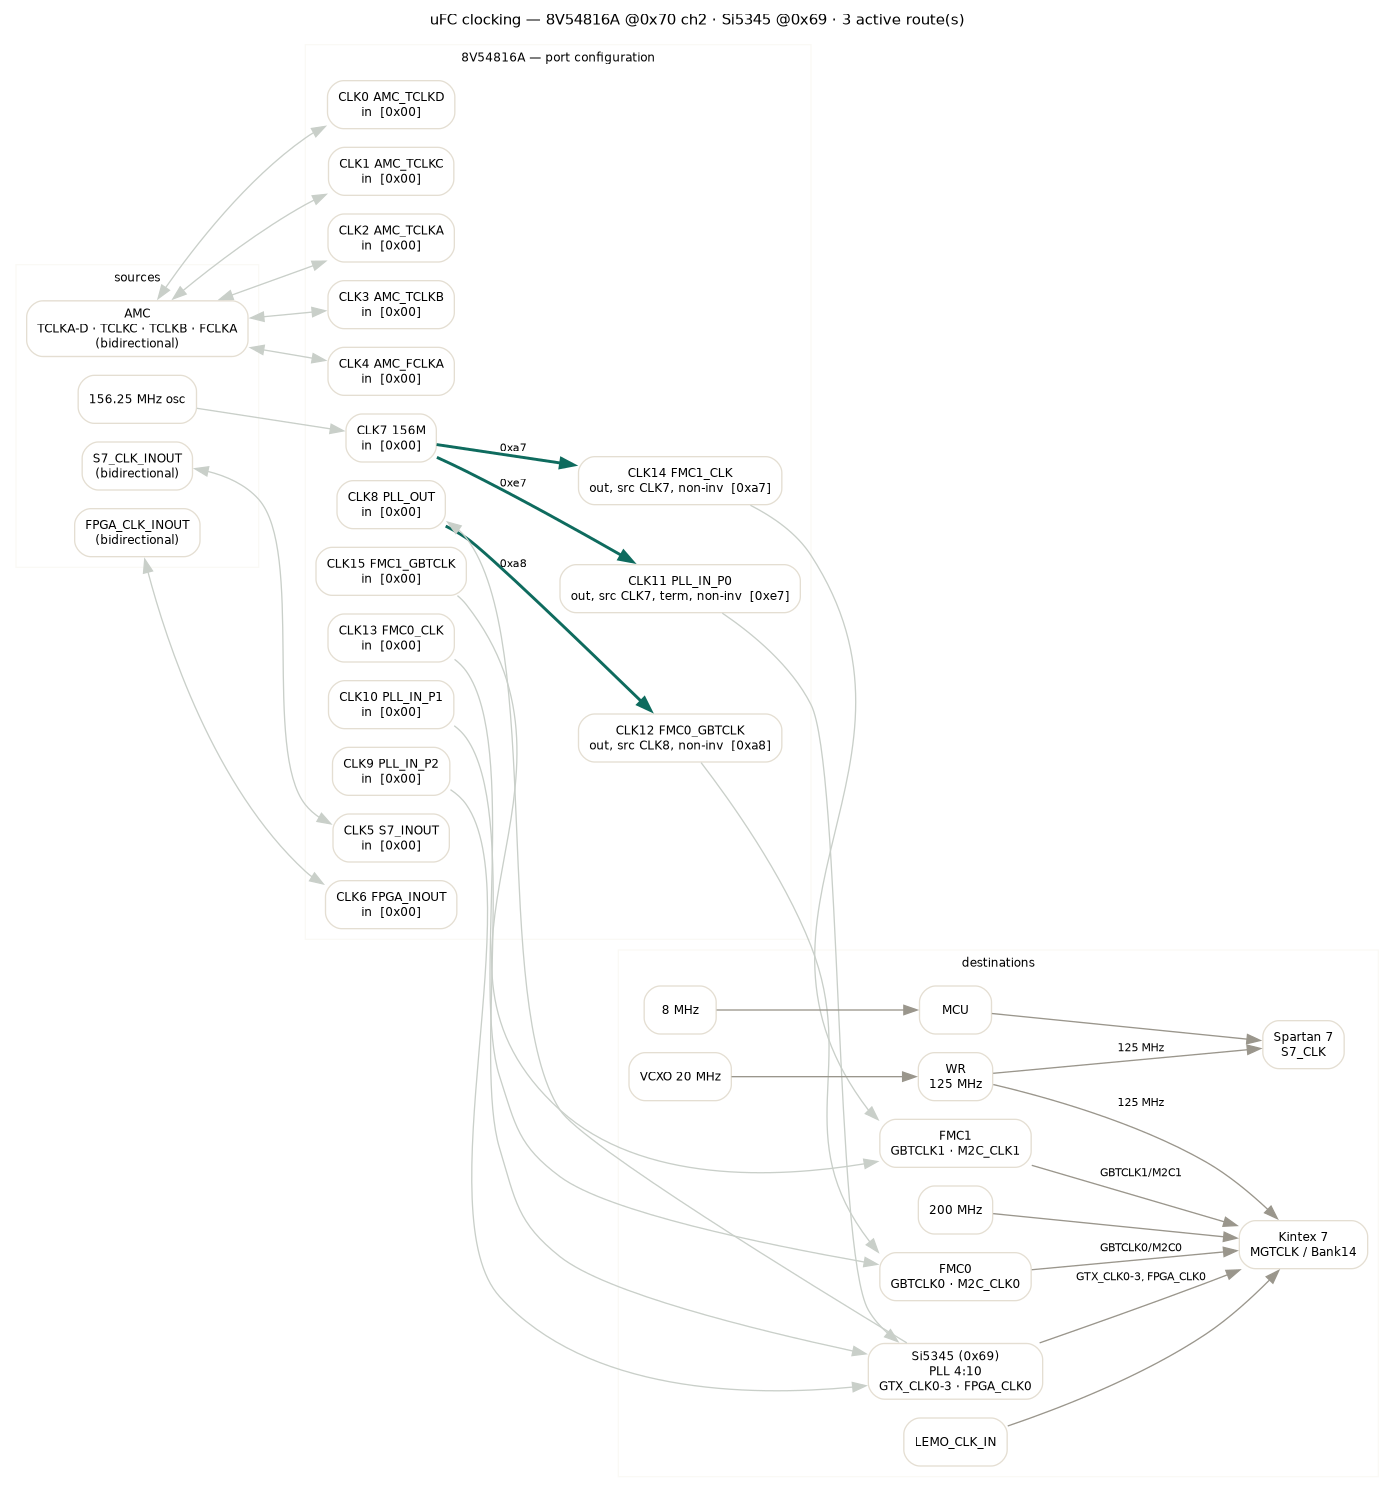
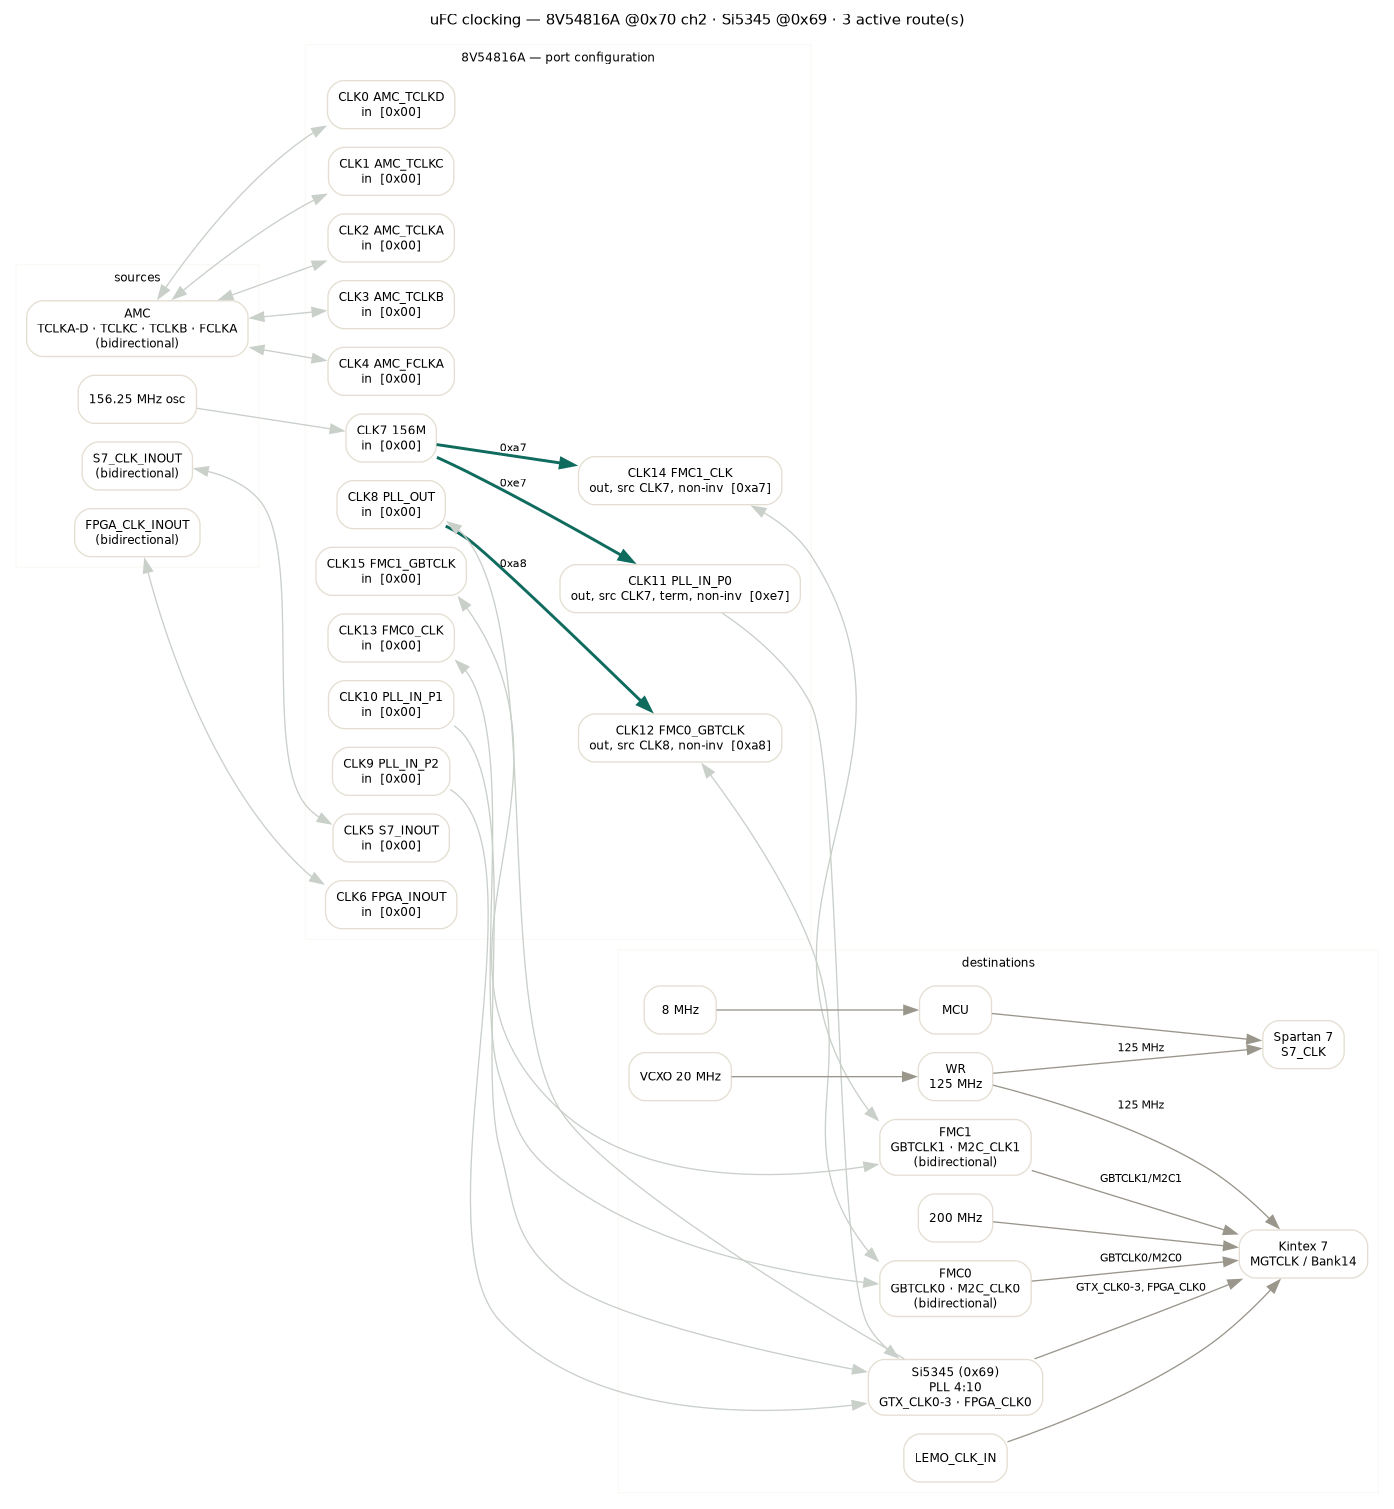
clock: enforce the real 8V54816A port directions
Only CLK9-CLK11 (PLL_IN_P2/P1/P0) are outputs; CLK7 (156M) and CLK8
(PLL_OUT) are inputs; the AMC TCLK/FCLK, S7/FPGA_INOUT and FMC clock
ports are bidirectional.

- port table: each row carries the hardware-legal direction, and an
  illegal selection snaps back (e.g. CLK9 cannot be set to 'in', 156M
  cannot be set to 'out'); the actual register value is still shown;
- system diagram: FMC0/FMC1 are marked bidirectional with dir=both
  links, AMC/S7/FPGA already were; 156M and PLL_OUT stay one-way
  inputs, the three PLL inputs stay one-way outputs;
- port map doc and README describe the directions; diagram and
  screenshot regenerated; binary rebuilt.

diff --git a/tools/fru_gui/fru_gui_tk.py b/tools/fru_gui/fru_gui_tk.py
@@ -343,7 +343,7 @@ class FruEditor(tk.Tk):
         hdr = ttk.Frame(tbl)
         hdr.pack(fill="x", pady=(2, 2))
         for text, w in (("port / signal", 22), ("dir", 4), ("source", 8), ("term", 4),
-                        ("polarity", 6), ("byte", 5)):
+                        ("pol", 5), ("byte", 5)):
             ttk.Label(hdr, text=text, style="Hint.TLabel", width=w, anchor="w").pack(side="left")
 
         self.clock_matrix = bytearray(16)
@@ -351,11 +351,21 @@ class FruEditor(tk.Tk):
         self.port_vars = []
         for i in range(16):
             port, name = (self.CLOCK_INPUTS + self.CLOCK_OUTPUTS)[i]
+            # hardware directions: CLK9-11 are the only outputs, CLK7/CLK8 inputs,
+            # everything else is bidirectional
+            if i in (9, 10, 11):
+                allowed = ("out",)
+            elif i in (7, 8):
+                allowed = ("in",)
+            else:
+                allowed = ("in", "out")
             rowf = ttk.Frame(tbl)
             rowf.pack(fill="x", pady=0)
             ttk.Label(rowf, text="%s %s" % (port, name), width=22, anchor="w",
                       font=(UI_FONT, 9)).pack(side="left")
             d = tk.StringVar(value="in")
+            # show the actual register value, but only the hardware-legal
+            # directions can be selected (allowed)
             ttk.Combobox(rowf, textvariable=d, values=("in", "out"), width=4,
                          state="readonly").pack(side="left", padx=(0, 6))
             src = tk.StringVar(value="-")
@@ -368,7 +378,7 @@ class FruEditor(tk.Tk):
             byte = tk.StringVar(value="0x00")
             ttk.Label(rowf, textvariable=byte, width=5, font=(MONO_FONT, 9)).pack(side="left")
             entry = {"dir": d, "src": src, "srcbox": srcbox, "term": term, "pol": pol,
-                     "byte": byte, "frame": rowf}
+                     "byte": byte, "frame": rowf, "allowed": allowed}
             self.port_vars.append(entry)
             d.trace_add("write", lambda *_a, idx=i: self._port_dir_changed(idx))
             src.trace_add("write", lambda *_a, idx=i: self._port_apply(idx))
@@ -411,6 +421,11 @@ class FruEditor(tk.Tk):
         if self.clock_loading:
             return
         d = self.port_vars[i]
+        if d["dir"].get() not in d["allowed"]:
+            self.clock_loading = True
+            d["dir"].set(d["allowed"][0])
+            self.clock_loading = False
+            return
         if d["dir"].get() == "out" and not d["pol"].get():
             d["pol"].set(True)
         self._port_apply(i)
@@ -489,8 +504,8 @@ class FruEditor(tk.Tk):
         lines.append("  }")
         lines.append('  subgraph cluster_dst { label="destinations"; fontsize=9; color="#FAF9F5";')
         lines.append('    SI [label="Si5345 (0x69)\nPLL 4:10\nGTX_CLK0-3 · FPGA_CLK0"];')
-        lines.append('    FMC0 [label="FMC0\nGBTCLK0 · M2C_CLK0"];')
-        lines.append('    FMC1 [label="FMC1\nGBTCLK1 · M2C_CLK1"];')
+        lines.append('    FMC0 [label="FMC0\nGBTCLK0 · M2C_CLK0\n(bidirectional)"];')
+        lines.append('    FMC1 [label="FMC1\nGBTCLK1 · M2C_CLK1\n(bidirectional)"];')
         lines.append('    S7 [label="Spartan 7\nS7_CLK"]; K7 [label="Kintex 7\nMGTCLK / Bank14"];')
         lines.append('    WR [label="WR\n125 MHz"];')
         lines.append('    VCXO [label="VCXO 20 MHz"]; OSC8 [label="8 MHz"]; MCU [label="MCU"];')
@@ -504,7 +519,8 @@ class FruEditor(tk.Tk):
             lines.append('  %s -> n%d [color="#C9CFC9"%s];' % (blk, idx, style))
         for port, blk in dest_block.items():
             idx = 9 + [p for (p, _n) in self.CLOCK_OUTPUTS].index(port)
-            lines.append('  n%d -> %s [color="#C9CFC9"];' % (idx, blk))
+            style = ', dir="both"' if blk in ("FMC0", "FMC1") else ""
+            lines.append('  n%d -> %s [color="#C9CFC9"%s];' % (idx, blk, style))
         lines.append('  SI -> K7 [label="GTX_CLK0-3, FPGA_CLK0"];')
         lines.append('  SI -> SI [style=invis];')
         lines.append('  FMC0 -> K7 [label="GBTCLK0/M2C0"];')

diff --git a/docs/CLOCK_SWITCH.md b/docs/CLOCK_SWITCH.md
@@ -51,15 +51,15 @@ Reset default is `0x00` for every port (all inputs, termination off).
 | CLK4 | 31/32 | `AMC_FCLKA_P/N` | **bidirectional** (FCLKA can be received or driven) |
 | CLK5 | 35/36 | `S7_CLK_INOUT_P/N` | **bidirectional** |
 | CLK6 | 40/41 | `FPGA_CLK_INOUT_P/N` | **bidirectional** |
-| CLK7 | 44/45 | `156M_P/N` (570BAB000544DG) | input |
-| CLK8 | 56/57 | `PLL_OUT_P/N` (Si5345 output) | input |
-| CLK9 | 60/61 | `PLL_IN_P2` (to Si5345 IN2) | **output** |
+| CLK7 | 44/45 | `156M_P/N` (570BAB000544DG) | input (oscillator) |
+| CLK8 | 56/57 | `PLL_OUT_P/N` (Si5345 output) | input (from the Si5345) |
+| CLK9 | 60/61 | `PLL_IN_P2` (to Si5345 IN2) | **output** (only outputs) |
 | CLK10 | 65/66 | `PLL_IN_P1` (to Si5345 IN1) | **output** |
 | CLK11 | 69/70 | `PLL_IN_P0` (to Si5345 IN0) | **output** |
-| CLK12 | 81/82 | `FMC0_GBTCLK_M2C_P/N` | **output** |
-| CLK13 | 85/86 | `FMC0_CLK_M2C_P/N` | **output** |
+| CLK12 | 81/82 | `FMC0_GBTCLK_M2C_P/N` | **bidirectional** |
+| CLK13 | 85/86 | `FMC0_CLK_M2C_P/N` | **bidirectional** |
 | CLK14 | 90/91 | `FMC1_CLK_M2C_P/N` | **output** |
-| CLK15 | 94/95 | `FMC1_GBTCLK_M2C_P/N` | **output** |
+| CLK15 | 94/95 | `FMC1_GBTCLK_M2C_P/N` | **bidirectional** |
 
 So ports 0–8 are the available clock **sources**, ports 9–15 are the **outputs**
 (three Si5345 PLL inputs and four FMC clocks).

diff --git a/tools/fru_gui/README.md b/tools/fru_gui/README.md
@@ -134,7 +134,10 @@ Presets: **EEPROM FRU** (0x70 ch0, 0x50, read 8), **UCD PMBus** (0x70 ch0,
 
 The 8V54816A is configured port by port in a table: **direction** (in/out),
 **source** (CLK0…CLK8 for outputs), **100 Ω termination**, **non-inverted**
-polarity and the resulting **matrix byte** for each of the 16 ports. A port
+polarity and the resulting **matrix byte** for each of the 16 ports. The
+hardware directions are enforced: **CLK9–CLK11 (PLL_IN_P2/P1/P0) are the only
+outputs**, **CLK7 (156M) and CLK8 (PLL_OUT) are inputs**, and the AMC
+TCLK/FCLK, S7/FPGA_INOUT and FMC clock ports are bidirectional. A port
 switched to output defaults to non-inverted. The matrix line below the table
 always shows the 16 bytes that are written to the device.
 
